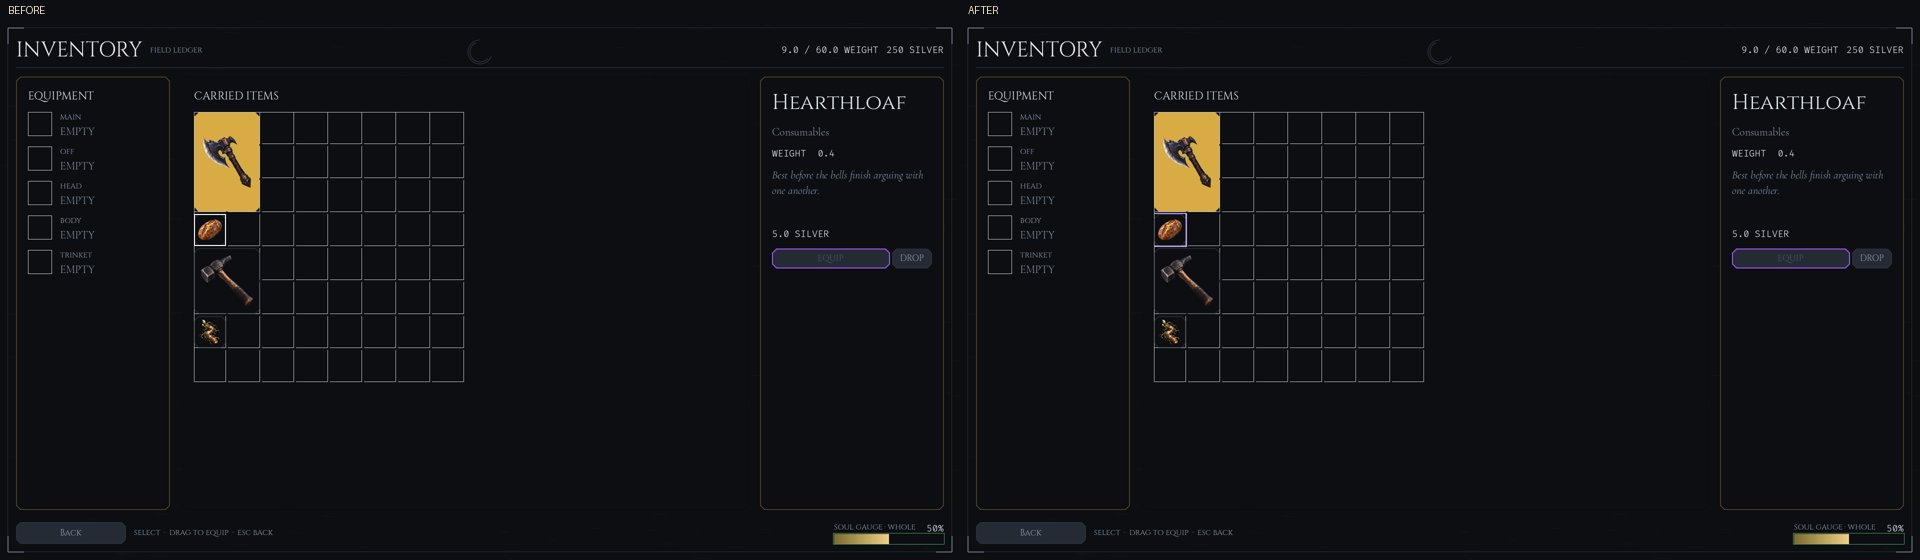
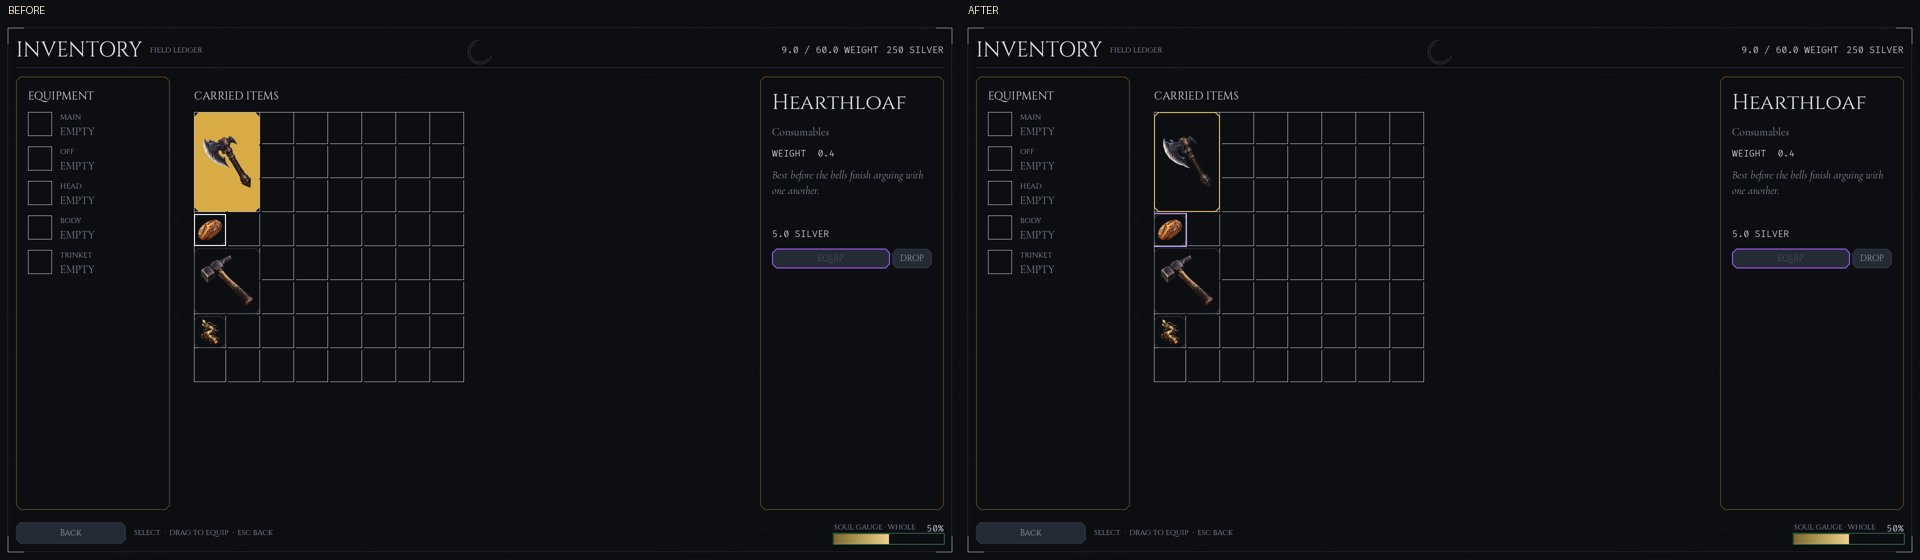
U3: mythic items get an amber edge; journal hides an empty "Quests entered"
Owner decisions 10-13 (2026-11-02), asked inline after #562 opened:
- Mythic rarity frame: an amber edge on the dark well (atlas tile 0), like
  rare's violet edge, instead of the solid amber fill (tile 24).
- PR #562 and #561 draft strings: approve all.
- The journal's "Quests entered" column stays hidden until a quest is
  completed; the quests in motion take the full width.
- After U3: wait for the owner's playtest before stacking more PRs.

Tests: two new assertions in test_panels_u3 (12 tests). Captures refreshed.

Changed region(s): [[0.5938, 0.1821, 0.6562, 0.3946]]

diff --git a/docs/qa/panels-u3-2026-11-02/README.md b/docs/qa/panels-u3-2026-11-02/README.md
@@ -10,9 +10,9 @@ before on the left and after on the right, each half at 960×540. Plan and rulin
 |---|---|
 | `01-party-to-register-summary.jpg` | P used to open a near-empty Party page (one stretched HP bar, a full-width BACK). It now opens the Register of Persons on its Summary tab: HP and Breath meters with numbers, attributes, the portrait, the Wheel and perks. |
 | `02-register-skills-tab.jpg` | The Skills tab. Five groups flow side by side; with no points to spend there is no +5% column. |
-| `03-journal.jpg` | One title and objective line for the thread; quests are three lines each (title, objective, who · where); no ACTIVE badges; framed ledger shell; BACK bottom-left. |
+| `03-journal.jpg` | One title and objective line for the thread; quests are three lines each (title, objective, who · where); no ACTIVE badges; with nothing completed, the quests in motion take the full width (owner decision 12); framed ledger shell; BACK bottom-left. |
 | `04-standing-empty.jpg` | One line instead of an empty list beside an empty sheet. |
 | `05-standing-with-factions.jpg` | Framed, fixed-width faction list beside its reasons. |
 | `06-inventory-selected.jpg` | The selection is a violet edge (was GLoot's white outline). EQUIP and DROP show with a selection. |
-| `07-inventory-nothing-selected.jpg` | With nothing selected, EQUIP and DROP are hidden. The solid amber tile is the mythic axe's rarity frame, not a selection. |
-| `08-selection-edge-crop.jpg` | 1:1 crops of the selection edge on a common item and on the mythic axe, before and after. |
+| `07-inventory-nothing-selected.jpg` | With nothing selected, EQUIP and DROP are hidden. The mythic axe was a solid amber tile (its rarity frame, not a selection); it is now an amber edge on the dark well (owner decision 10). |
+| `08-selection-edge-crop.jpg` | 1:1 crops, before and after: the selection edge on a common item, and the mythic axe (solid fill → amber edge, with the violet selection edge outside it). |

diff --git a/docs/design/ui-rework-plan-2026-11-01.md b/docs/design/ui-rework-plan-2026-11-01.md
@@ -198,7 +198,10 @@ Captures: `docs/qa/panels-u3-2026-11-02/`, before and after side by side from th
   edge-light drawn just outside the tile (`ItemSelection`); it replaces GLoot's white outline.
   **Correction to finding P6:** the solid bronze tile in the audit capture was not a selection.
   It is the mythic rarity frame (atlas tile 24, a solid amber fill; the Taubstummer Axe is
-  mythic). Rarity framing is unchanged here; it is an open question for the owner.
+  mythic). Owner, 2026-11-02 (decision 10): mythic becomes an amber edge on the dark well
+  (atlas tile 0), like rare's violet edge.
+- **Journal, decision 12:** the "Quests entered" column stays hidden until a quest is
+  completed; the quests in motion take the full width.
 
 ## Owner decisions
 
@@ -215,3 +218,7 @@ Asked inline on 2026-11-01. Answers are recorded below and in `docs/owner-decisi
 | 7 | Build order after U1 (2026-11-02) | **U2 and U3 together:** U2, then U3 straight after, each its own PR, without waiting on #559's review. |
 | 8 | Key-hint strip (U2.1, 2026-11-02) | **Hide after first use.** Each hint goes once its key is pressed; a Settings toggle brings the strip back. |
 | 9 | Party line (U2.2, 2026-11-02) | **Portraits + bars.** A small portrait, an HP bar and a Breath bar per member, sized for six; numbers on hover or focus. |
+| 10 | Mythic rarity frame (U3, 2026-11-02; the audit had misread it as selection) | **Amber edge**, on the dark well like rare's violet edge, instead of the solid amber fill. |
+| 11 | PR #562 and #561 draft strings (2026-11-02) | **Approve all.** |
+| 12 | The journal's empty "Quests entered" column (2026-11-02) | **Hide while empty.** |
+| 13 | After U3 (2026-11-02) | **Wait for the owner's playtest** of U1–U3 before stacking more PRs; notes fold into the open PRs. |
